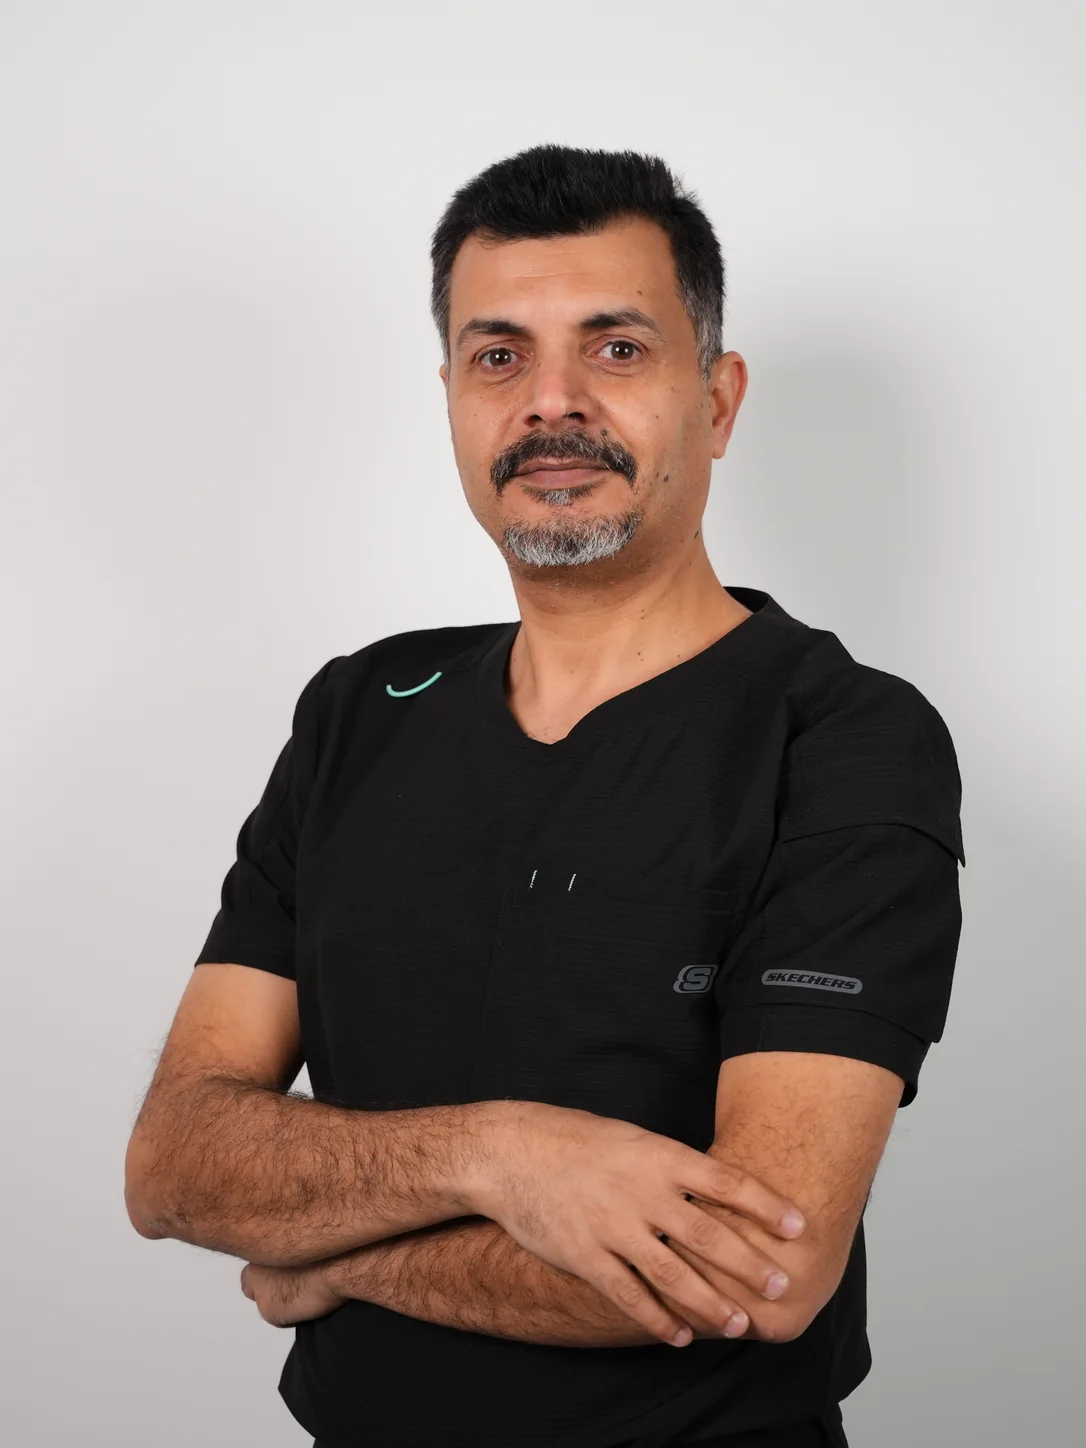
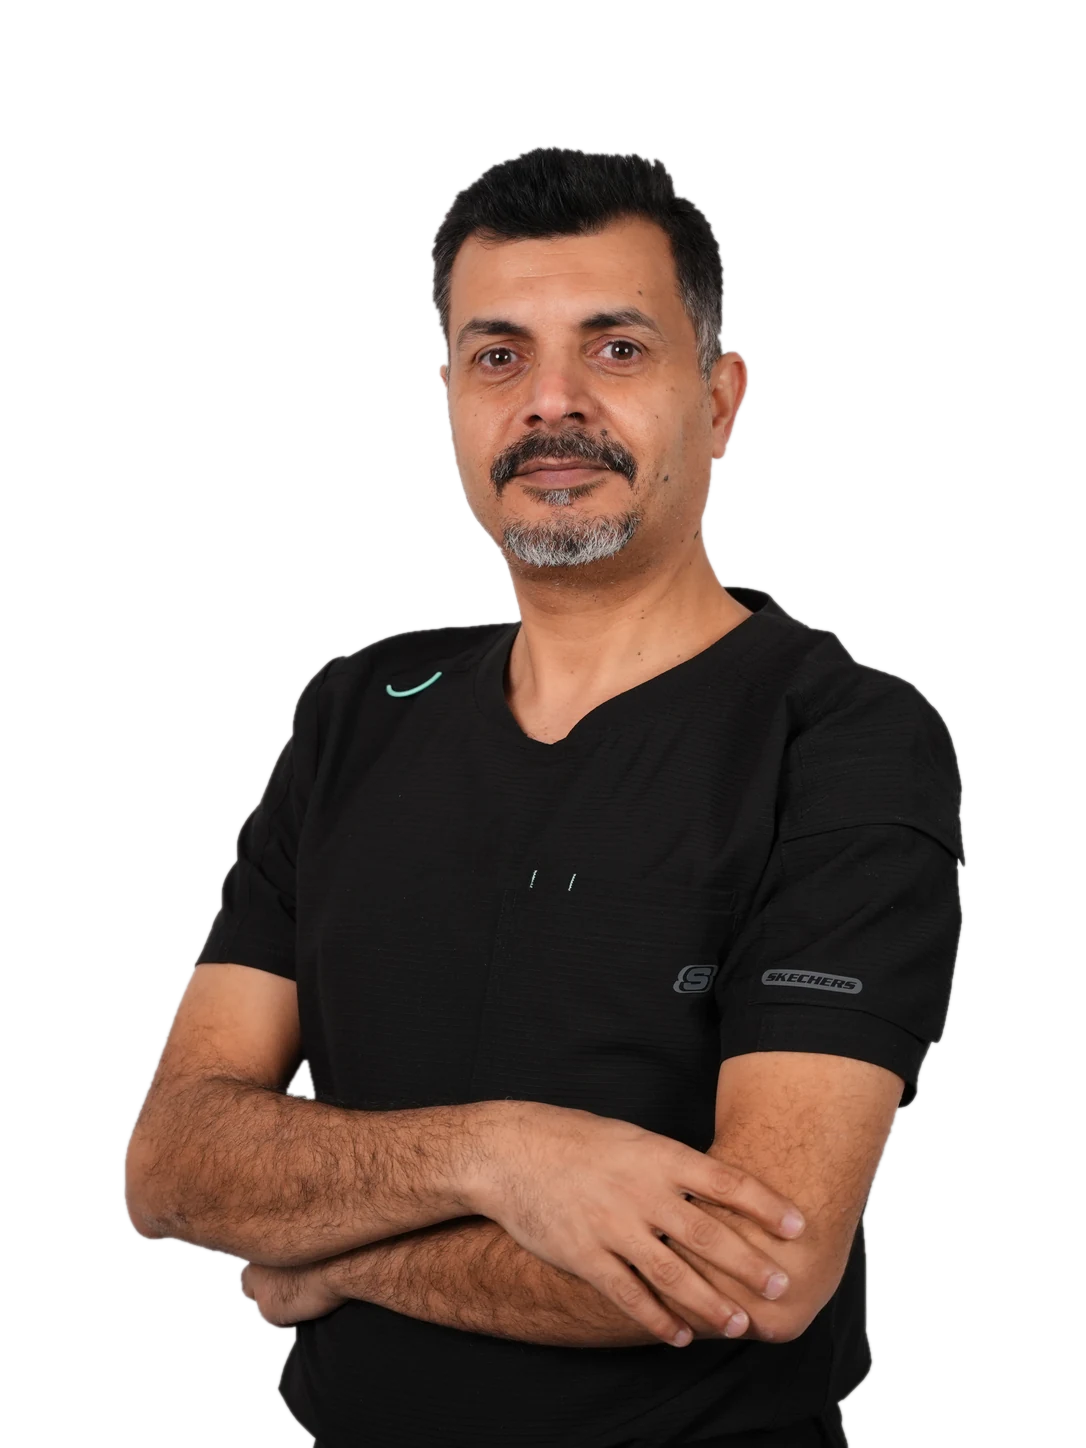
Show Dr. Yassir Alfalahi as a transparent cut-out like the other trainers
(cherry picked from commit 6c7529458115ea326d5f33b7f0287576179c5150)

diff --git a/backend/tools/publish-vanest-workshop.php b/backend/tools/publish-vanest-workshop.php
@@ -23,6 +23,12 @@ if (!$ownerId) throw new RuntimeException('Enabled Owner required.');
 Db::transaction(static function () use ($definition, $ownerId): void {
     $existing = Db::one('SELECT * FROM workshops WHERE id=? FOR UPDATE', [$definition['id']]);
     if ($existing) {
+        // 15 Nov: the plain photo became a transparent cut-out (same file name).
+        if ($existing['photo_style'] === 'photo' && $definition['photo_style'] === 'cutout' && $existing['photo'] === $definition['photo']) {
+            Db::update('workshops', ['photo_style' => 'cutout', 'updated_at' => App::now()], 'id=?', [$definition['id']]);
+            Audit::log($ownerId, 'workshop.edit', 'workshop', null, ['id' => $definition['id'], 'photo_style' => 'cutout']);
+            $existing['photo_style'] = 'cutout';
+        }
         foreach ($definition as $field => $value) {
             $actual = in_array($field, ['start_time', 'end_time'], true) ? substr((string) $existing[$field], 0, 5) : (string) $existing[$field];
             if ($actual !== (string) $value) throw new RuntimeException('Existing workshop differs: ' . $field);
